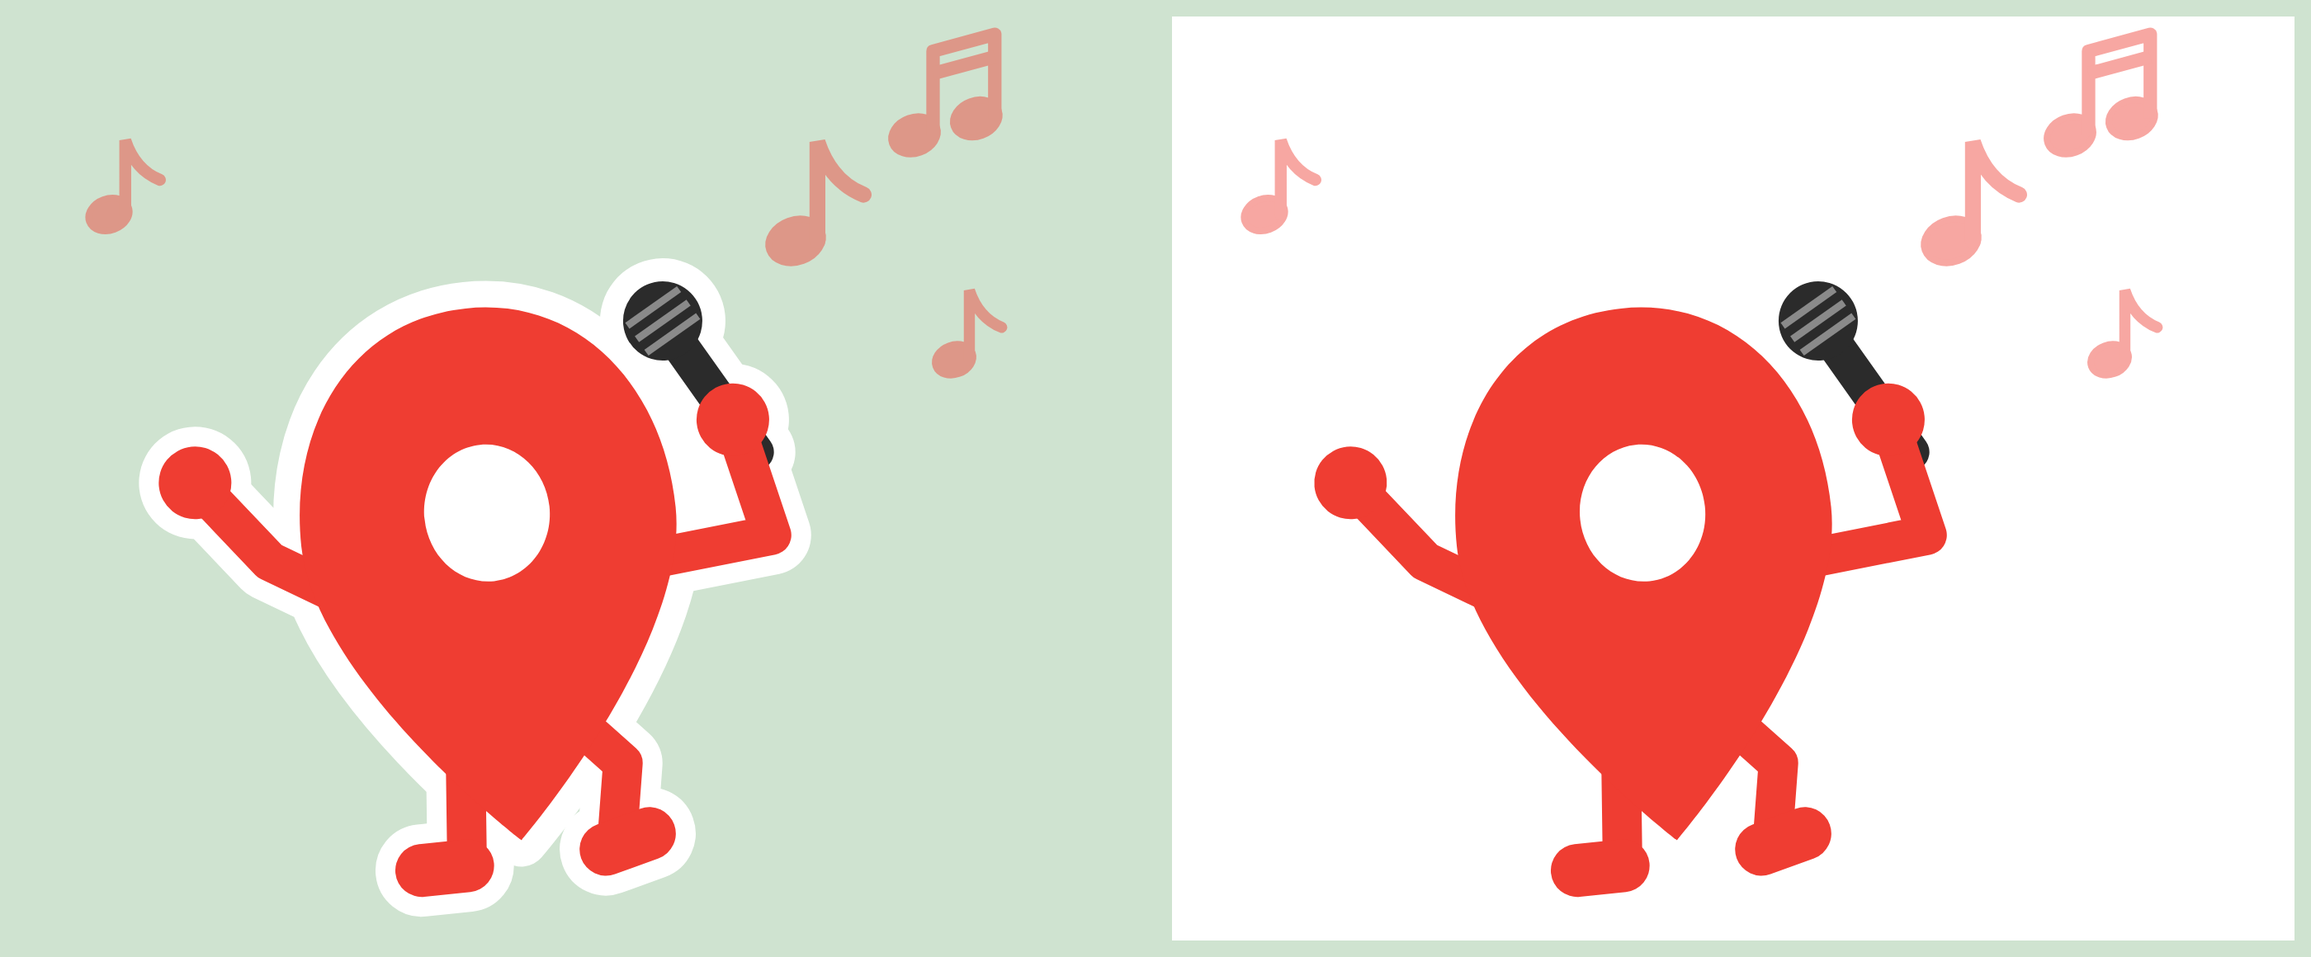
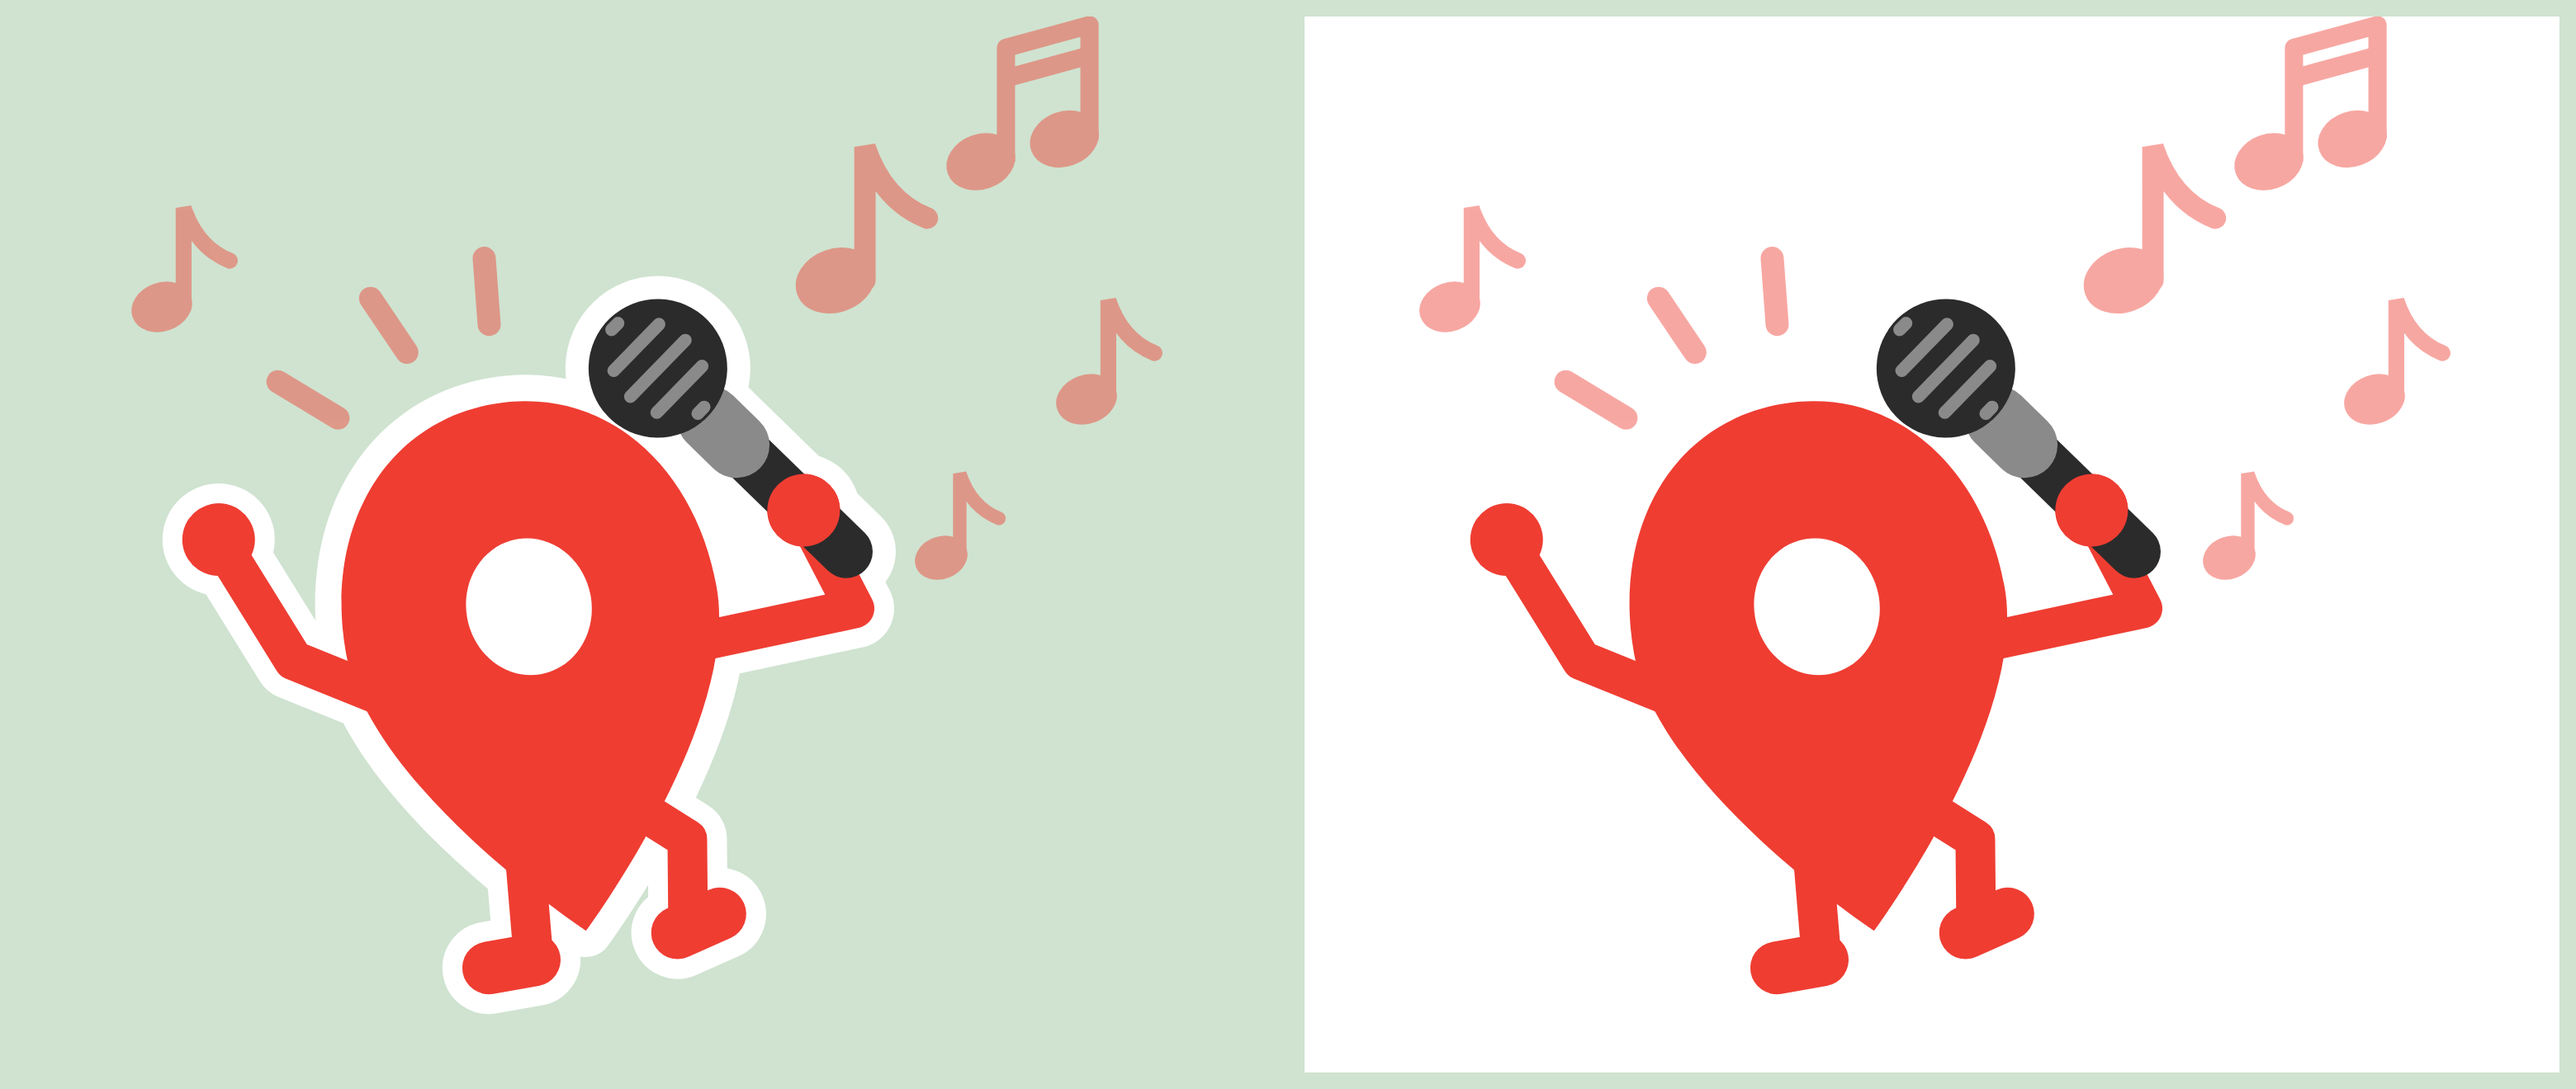
노래핀: 마이크를 크게 키워 입에 댄 모습으로 바꾸고 노래선·큰 음표로 노래하는 느낌 강조
Claude-Session: https://claude.ai/code/session_01VwLjVEk8fV2qPVUaqD4x1x

diff --git a/.claude/skills/pin-character/pin_character.py b/.claude/skills/pin-character/pin_character.py
@@ -95,27 +95,36 @@ def music_notes(notes, gid="음표"):
     return f'<g id="{gid}" fill="{RED}" stroke="{RED}" opacity="0.45">{out}</g>'
 
 
-def microphone(hand=(69, 23), head=(60, 7), r=6):
+def microphone(hand=(69, 23), head=(60, 7), r=6, hw=5.5, tail=6):
     """손에 든 마이크. (흰 테두리용, 본체) 두 개를 돌려준다."""
     (hx, hy), (mx, my) = hand, head
     dx, dy = hx - mx, hy - my
     L = math.hypot(dx, dy)
     ux, uy = dx / L, dy / L
-    bx, by = hx + ux * 6, hy + uy * 6          # 손잡이 끝 (손 아래로 조금 나옴)
-    cx, cy = mx + ux * (r - 1), my + uy * (r - 1)   # 손잡이 시작 (머리 아래)
-    handle = f"M{cx:.2f} {cy:.2f} L{bx:.2f} {by:.2f}"
     px, py = -uy, ux
-    grill = "".join(f'<path d="M{mx + px * r * 0.8 + ux * o:.2f} {my + py * r * 0.8 + uy * o:.2f} '
-                    f'L{mx - px * r * 0.8 + ux * o:.2f} {my - py * r * 0.8 + uy * o:.2f}" stroke="#8A8A8A" stroke-width="1.1"/>'
-                    for o in (-2.5, 0, 2.5))
-    outline = (f'<path d="{handle}" stroke="white" stroke-width="12" stroke-linecap="round"/>'
+    k = r / 6
+    bx, by = hx + ux * tail, hy + uy * tail            # 손잡이 끝 (손 아래로 조금 나옴)
+    cx, cy = mx + ux * (r - 1), my + uy * (r - 1)      # 손잡이 시작 (머리 아래)
+    handle = f"M{cx:.2f} {cy:.2f} L{bx:.2f} {by:.2f}"
+    c1 = (mx + ux * (r + 0.5), my + uy * (r + 0.5))    # 머리 아래 은색 고리
+    c2 = (mx + ux * (r + 3.5 * k), my + uy * (r + 3.5 * k))
+    collar = f"M{c1[0]:.2f} {c1[1]:.2f} L{c2[0]:.2f} {c2[1]:.2f}"
+    grill = ""
+    for o in [i * 2.6 * k for i in (-2, -1, 0, 1, 2)]:
+        half = math.sqrt(r * r - o * o) - 2.6 * k
+        if half > 0.5:
+            grill += (f'<path d="M{mx + px * half + ux * o:.2f} {my + py * half + uy * o:.2f} '
+                      f'L{mx - px * half + ux * o:.2f} {my - py * half + uy * o:.2f}" '
+                      f'stroke="#8A8A8A" stroke-width="{1.1 * k:.2f}" stroke-linecap="round"/>')
+    outline = (f'<path d="{handle}" stroke="white" stroke-width="{hw + 7}" stroke-linecap="round"/>'
                f'<circle cx="{mx}" cy="{my}" r="{r + 3.5}" fill="white"/>')
-    body = (f'<g id="마이크"><path d="{handle}" stroke="{DARK}" stroke-width="5.5" stroke-linecap="round"/>'
+    body = (f'<g id="마이크"><path d="{handle}" stroke="{DARK}" stroke-width="{hw}" stroke-linecap="round"/>'
+            f'<path d="{collar}" stroke="#8A8A8A" stroke-width="{hw + 2}" stroke-linecap="round"/>'
             f'<circle cx="{mx}" cy="{my}" r="{r}" fill="{DARK}"/>{grill}</g>')
     return outline, body
 
 
-_mic_outline, _mic = microphone()
+_mic_outline, _mic = microphone(hand=(74, 26), head=(56, 1), r=10.5, hw=8, tail=9)
 
 _flag_outline, _flag = checker_flag()
 
@@ -148,12 +157,15 @@ POSES = {
     ),
     # 🎤 노래 부르는 핀 (노래핀.svg)
     "sing": dict(
-        size=(170, 140), move=(42, 42), tilt=-6,
-        limbs=["M51 43 L73 41 L69 23", "M10 45 L-3 37 L-13 24", "M24 63 L22 85", "M37 62 L47 73 L45 84"],
-        hands=[(69, 23), (-13, 24)],
-        shoes=[(11, 82, 15, 8), (39, 81, 15, 8, -14, 46, 85)],
-        prop_outline=_mic_outline + '<path d="M51 43 L73 41 L69 23 L56 22Z" fill="white" stroke="white" stroke-width="6" stroke-linejoin="round"/>', prop=_mic,
-        effects=music_notes([(118, 34, 1.0, False), (136, 18, 0.85, True), (142, 52, 0.7, False), (14, 30, 0.75, False)]),
+        size=(190, 160), move=(50, 56), tilt=-10, pivot_y=50,
+        limbs=["M51 43 L79 42 L74 26", "M10 45 L-6 35 L-14 15", "M24 63 L22 85", "M37 62 L48 72 L46 84"],
+        hands=[(74, 26), (-14, 15)],
+        shoes=[(11, 82, 15, 8), (40, 81, 15, 8, -14, 47, 85)],
+        prop_outline=_mic_outline + '<path d="M51 43 L79 42 L74 26 L58 22Z" fill="white" stroke="white" stroke-width="6" stroke-linejoin="round"/>',
+        # 마이크는 핀 앞에 둬서 입에 댄 것처럼 보이게 하고, 마이크 잡은 손을 그 위에 한 번 더 그린다
+        prop_front=_mic + f'<circle id="마이크 잡은 손" cx="74" cy="26" r="{HAND_R}" fill="{RED}"/>'
+                   + motion_lines(["M7 0 L-1 -7", "M19 -8 L15 -17", "M32 -10 L33 -20"], "노래선", 3.5),
+        effects=music_notes([(124, 40, 1.35, False), (146, 22, 1.15, True), (162, 58, 1.0, False), (140, 82, 0.85, False), (22, 44, 1.0, False)]),
     ),
 }
 
